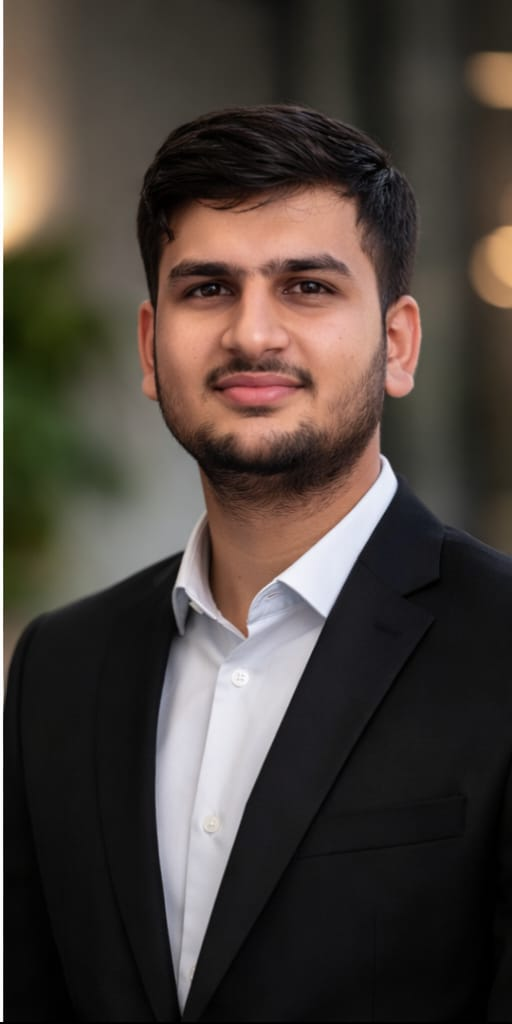
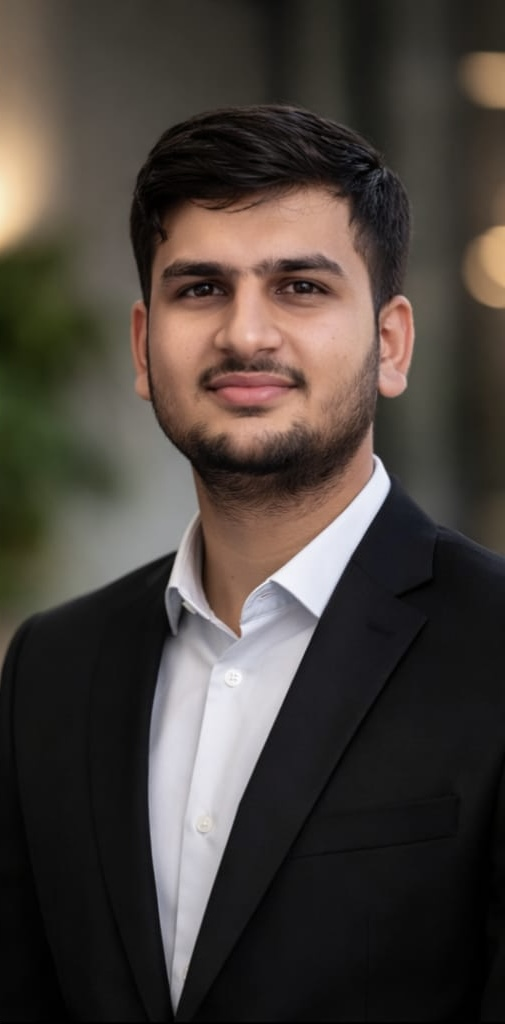
Replace leadership photos with latest uploads

diff --git a/index.html b/index.html
@@ -1781,7 +1781,7 @@
 
     <div class="leadership-grid">
       <article class="leader-card">
-        <img class="leader-photo" src="assets/kirtan-lokadiya.jpg?v=20260504" alt="Kirtan Lokadiya, CEO at Kubearoha Technologies" loading="lazy" />
+        <img class="leader-photo" src="assets/kirtan-lokadiya.jpg?v=20260504-2" alt="Kirtan Lokadiya, CEO at Kubearoha Technologies" loading="lazy" />
         <div class="leader-content">
           <div class="leader-role">CEO</div>
           <h3 class="leader-name">Kirtan Lokadiya</h3>
@@ -1797,7 +1797,7 @@
       </article>
 
       <article class="leader-card">
-        <img class="leader-photo" src="assets/meet-lunagariya.jpg?v=20260504" alt="Meet Lunagariya, Founder at Kubearoha Technologies" loading="lazy" />
+        <img class="leader-photo" src="assets/meet-lunagariya.jpg?v=20260504-2" alt="Meet Lunagariya, Founder at Kubearoha Technologies" loading="lazy" />
         <div class="leader-content">
           <div class="leader-role">Founder</div>
           <h3 class="leader-name">Meet Lunagariya</h3>
